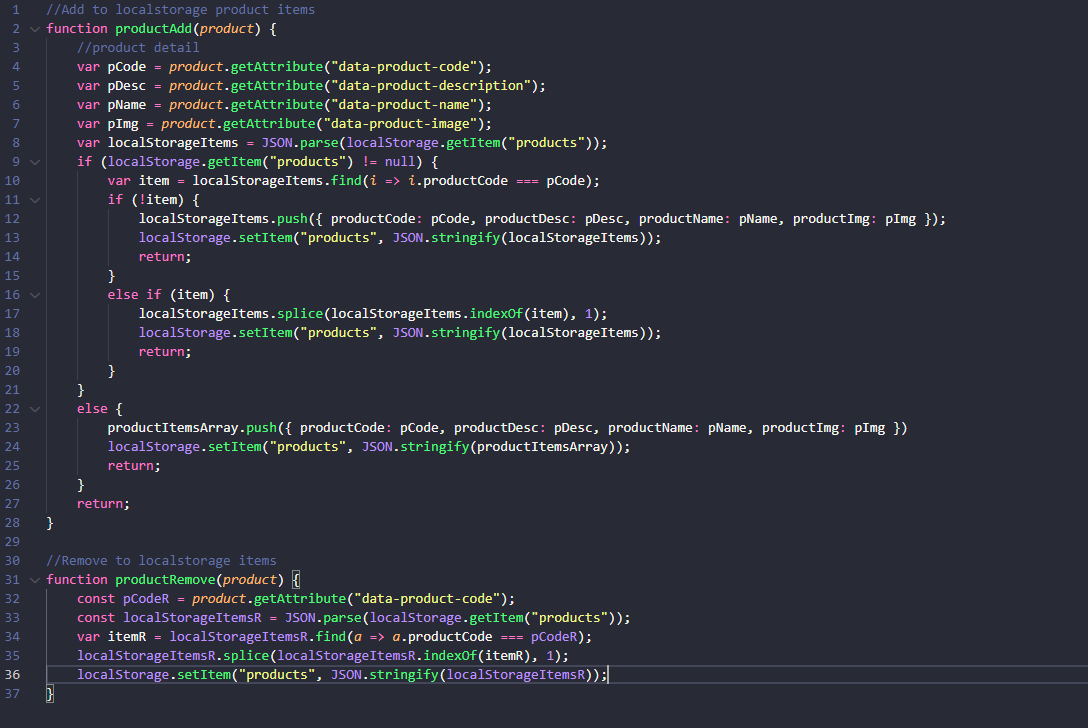
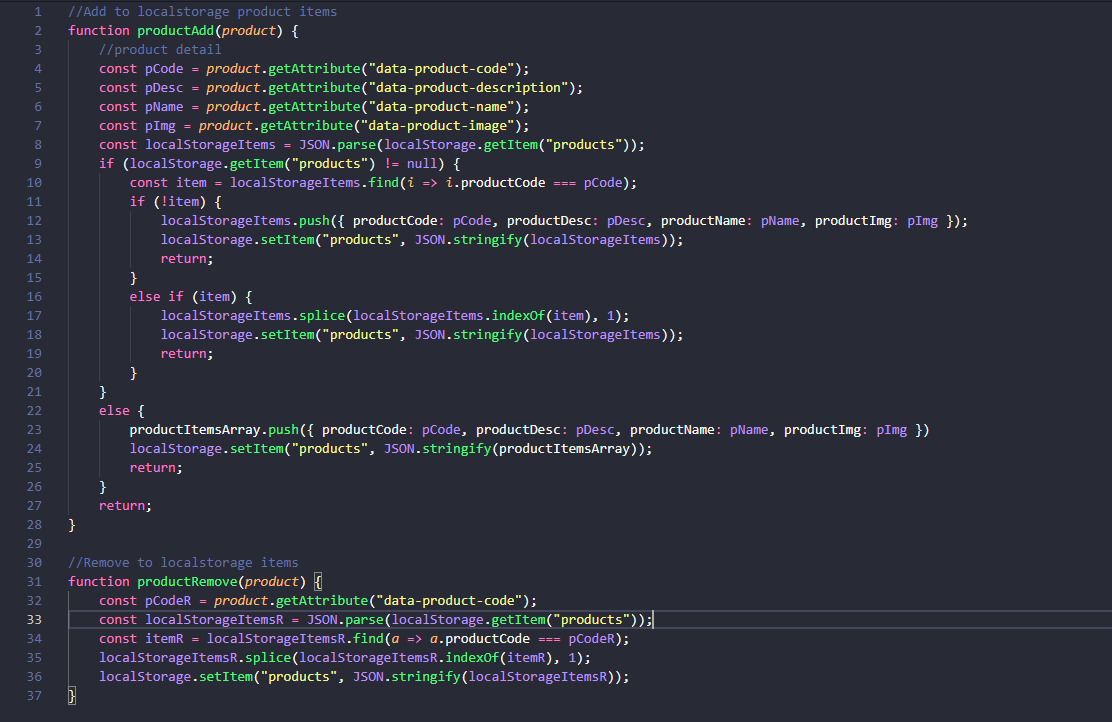
Updated

diff --git a/main.js b/main.js
@@ -1,3 +1,4 @@
+var productItemsArray = [];
 //Add to localstorage product items
 function productAdd(product) {
     //product detail
@@ -34,4 +35,5 @@ function productRemove(product) {
     const itemR = localStorageItemsR.find(a => a.productCode === pCodeR);
     localStorageItemsR.splice(localStorageItemsR.indexOf(itemR), 1);
     localStorage.setItem("products", JSON.stringify(localStorageItemsR));
+    return;
 }
